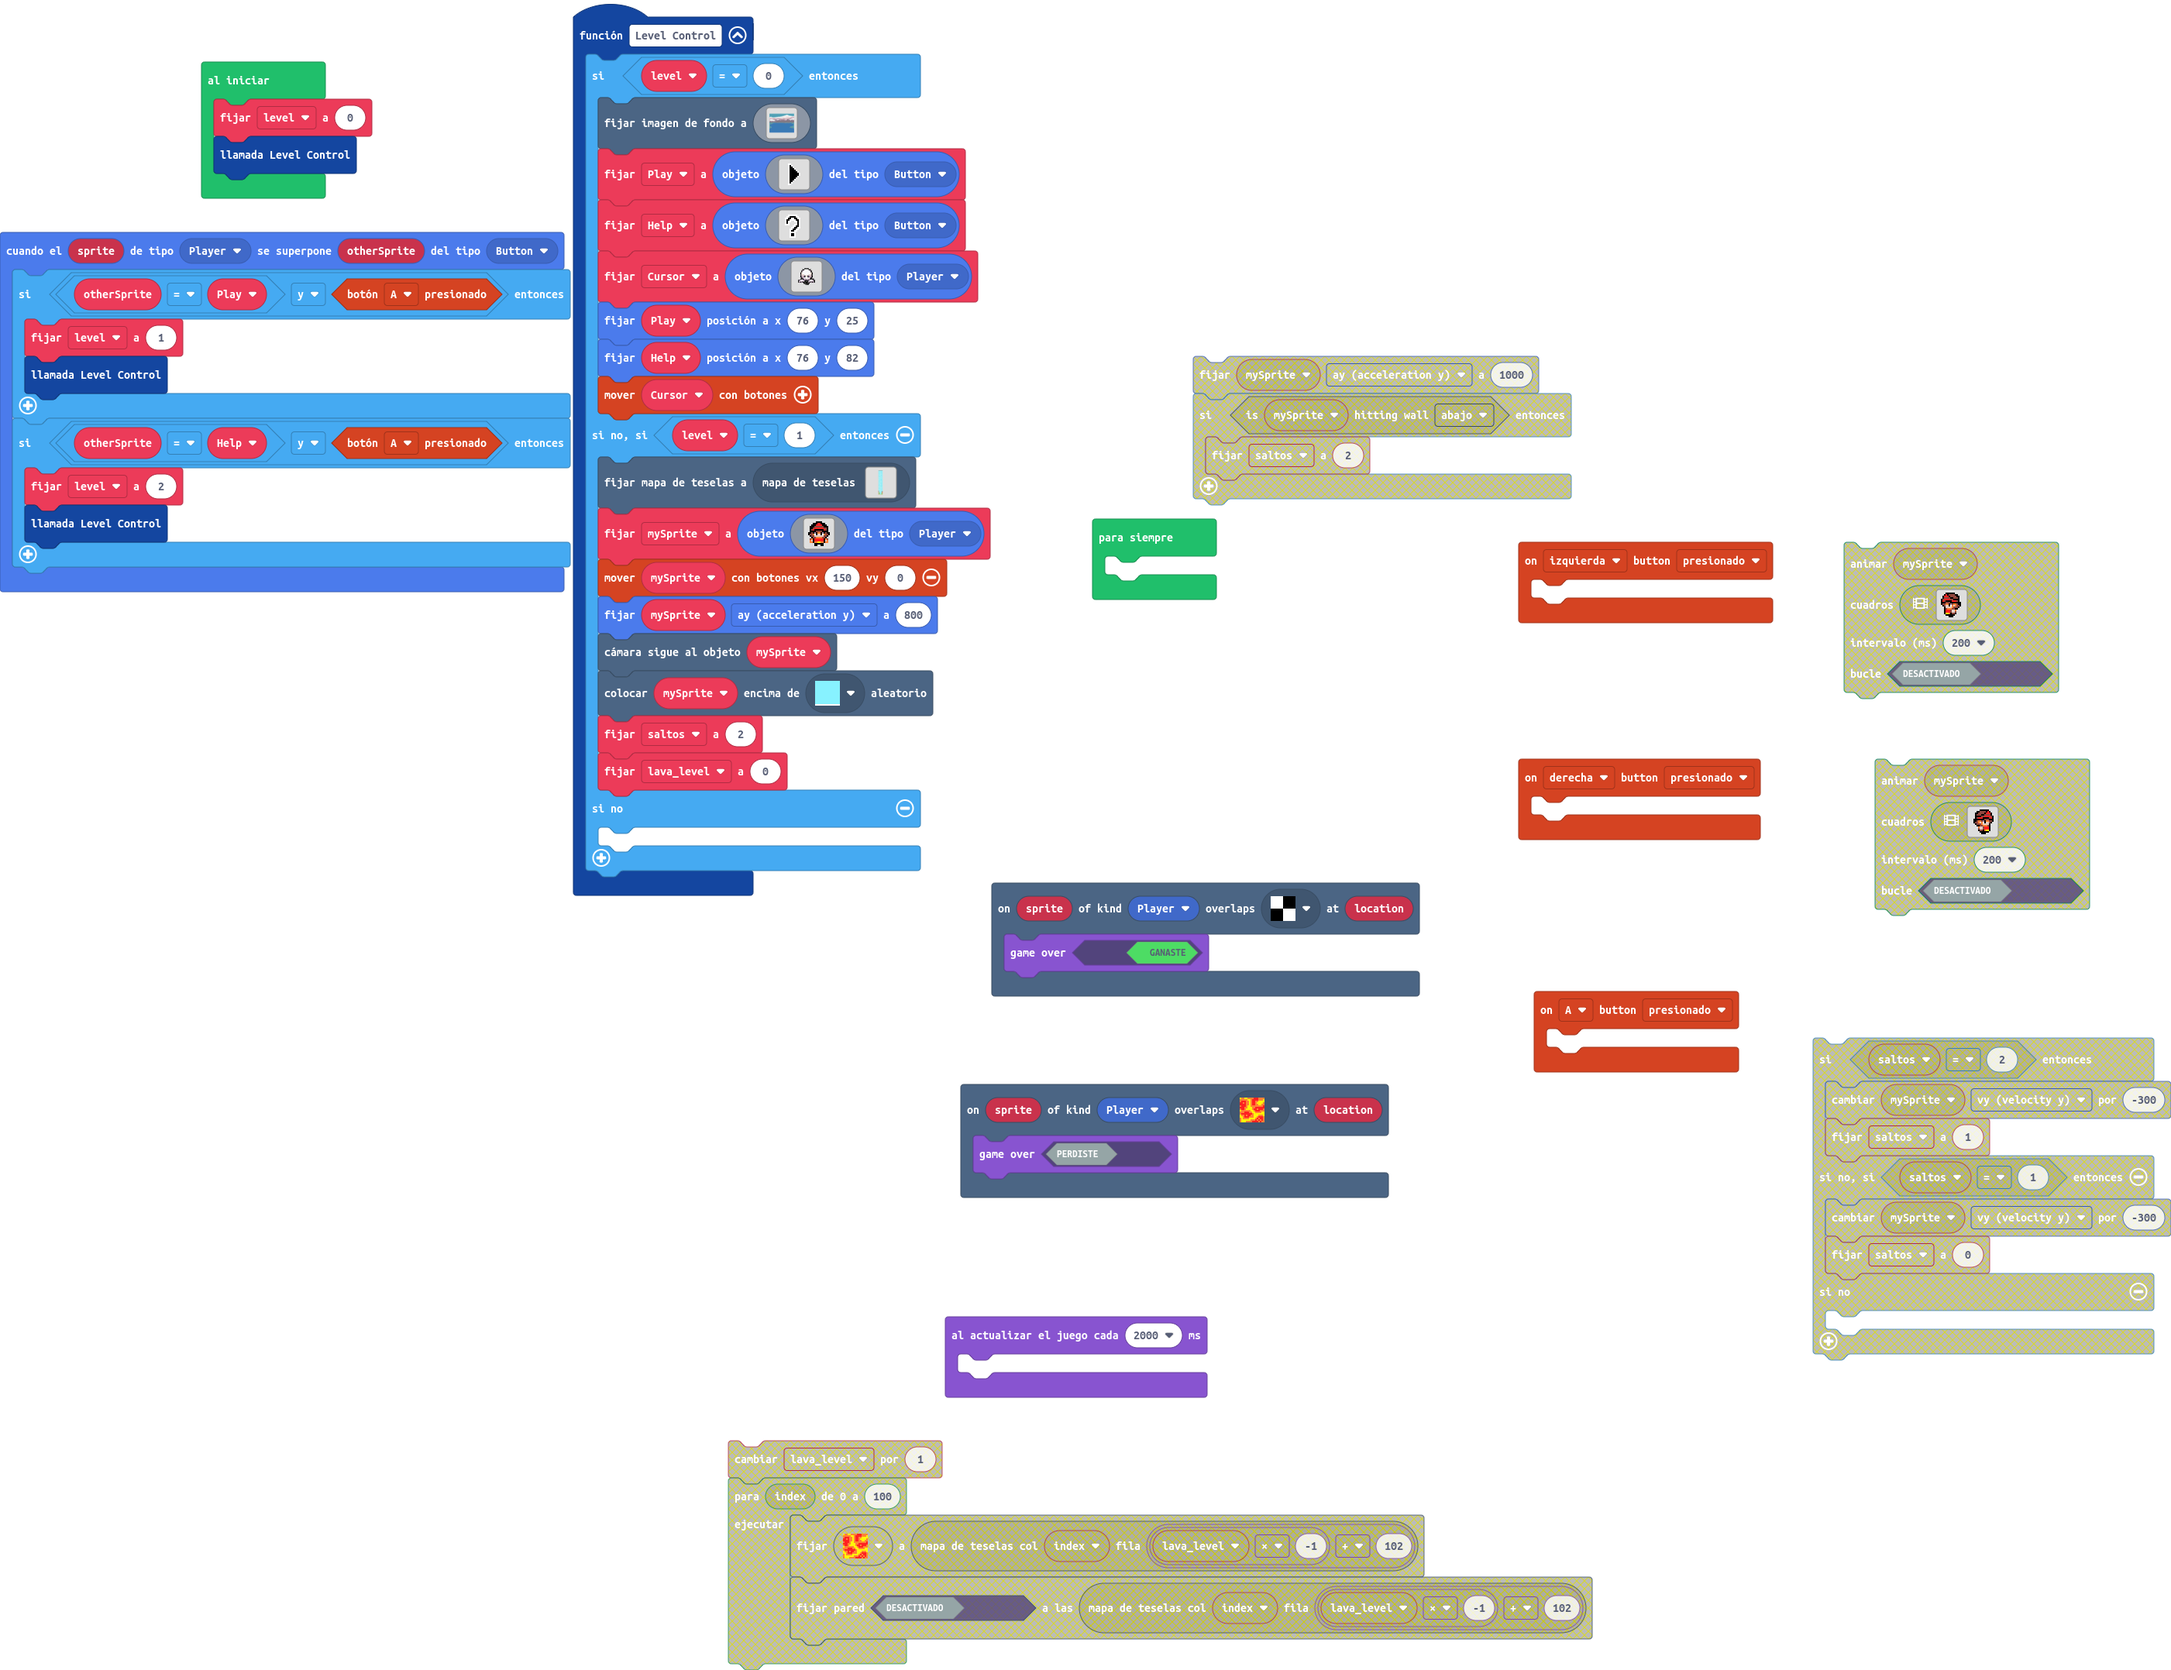
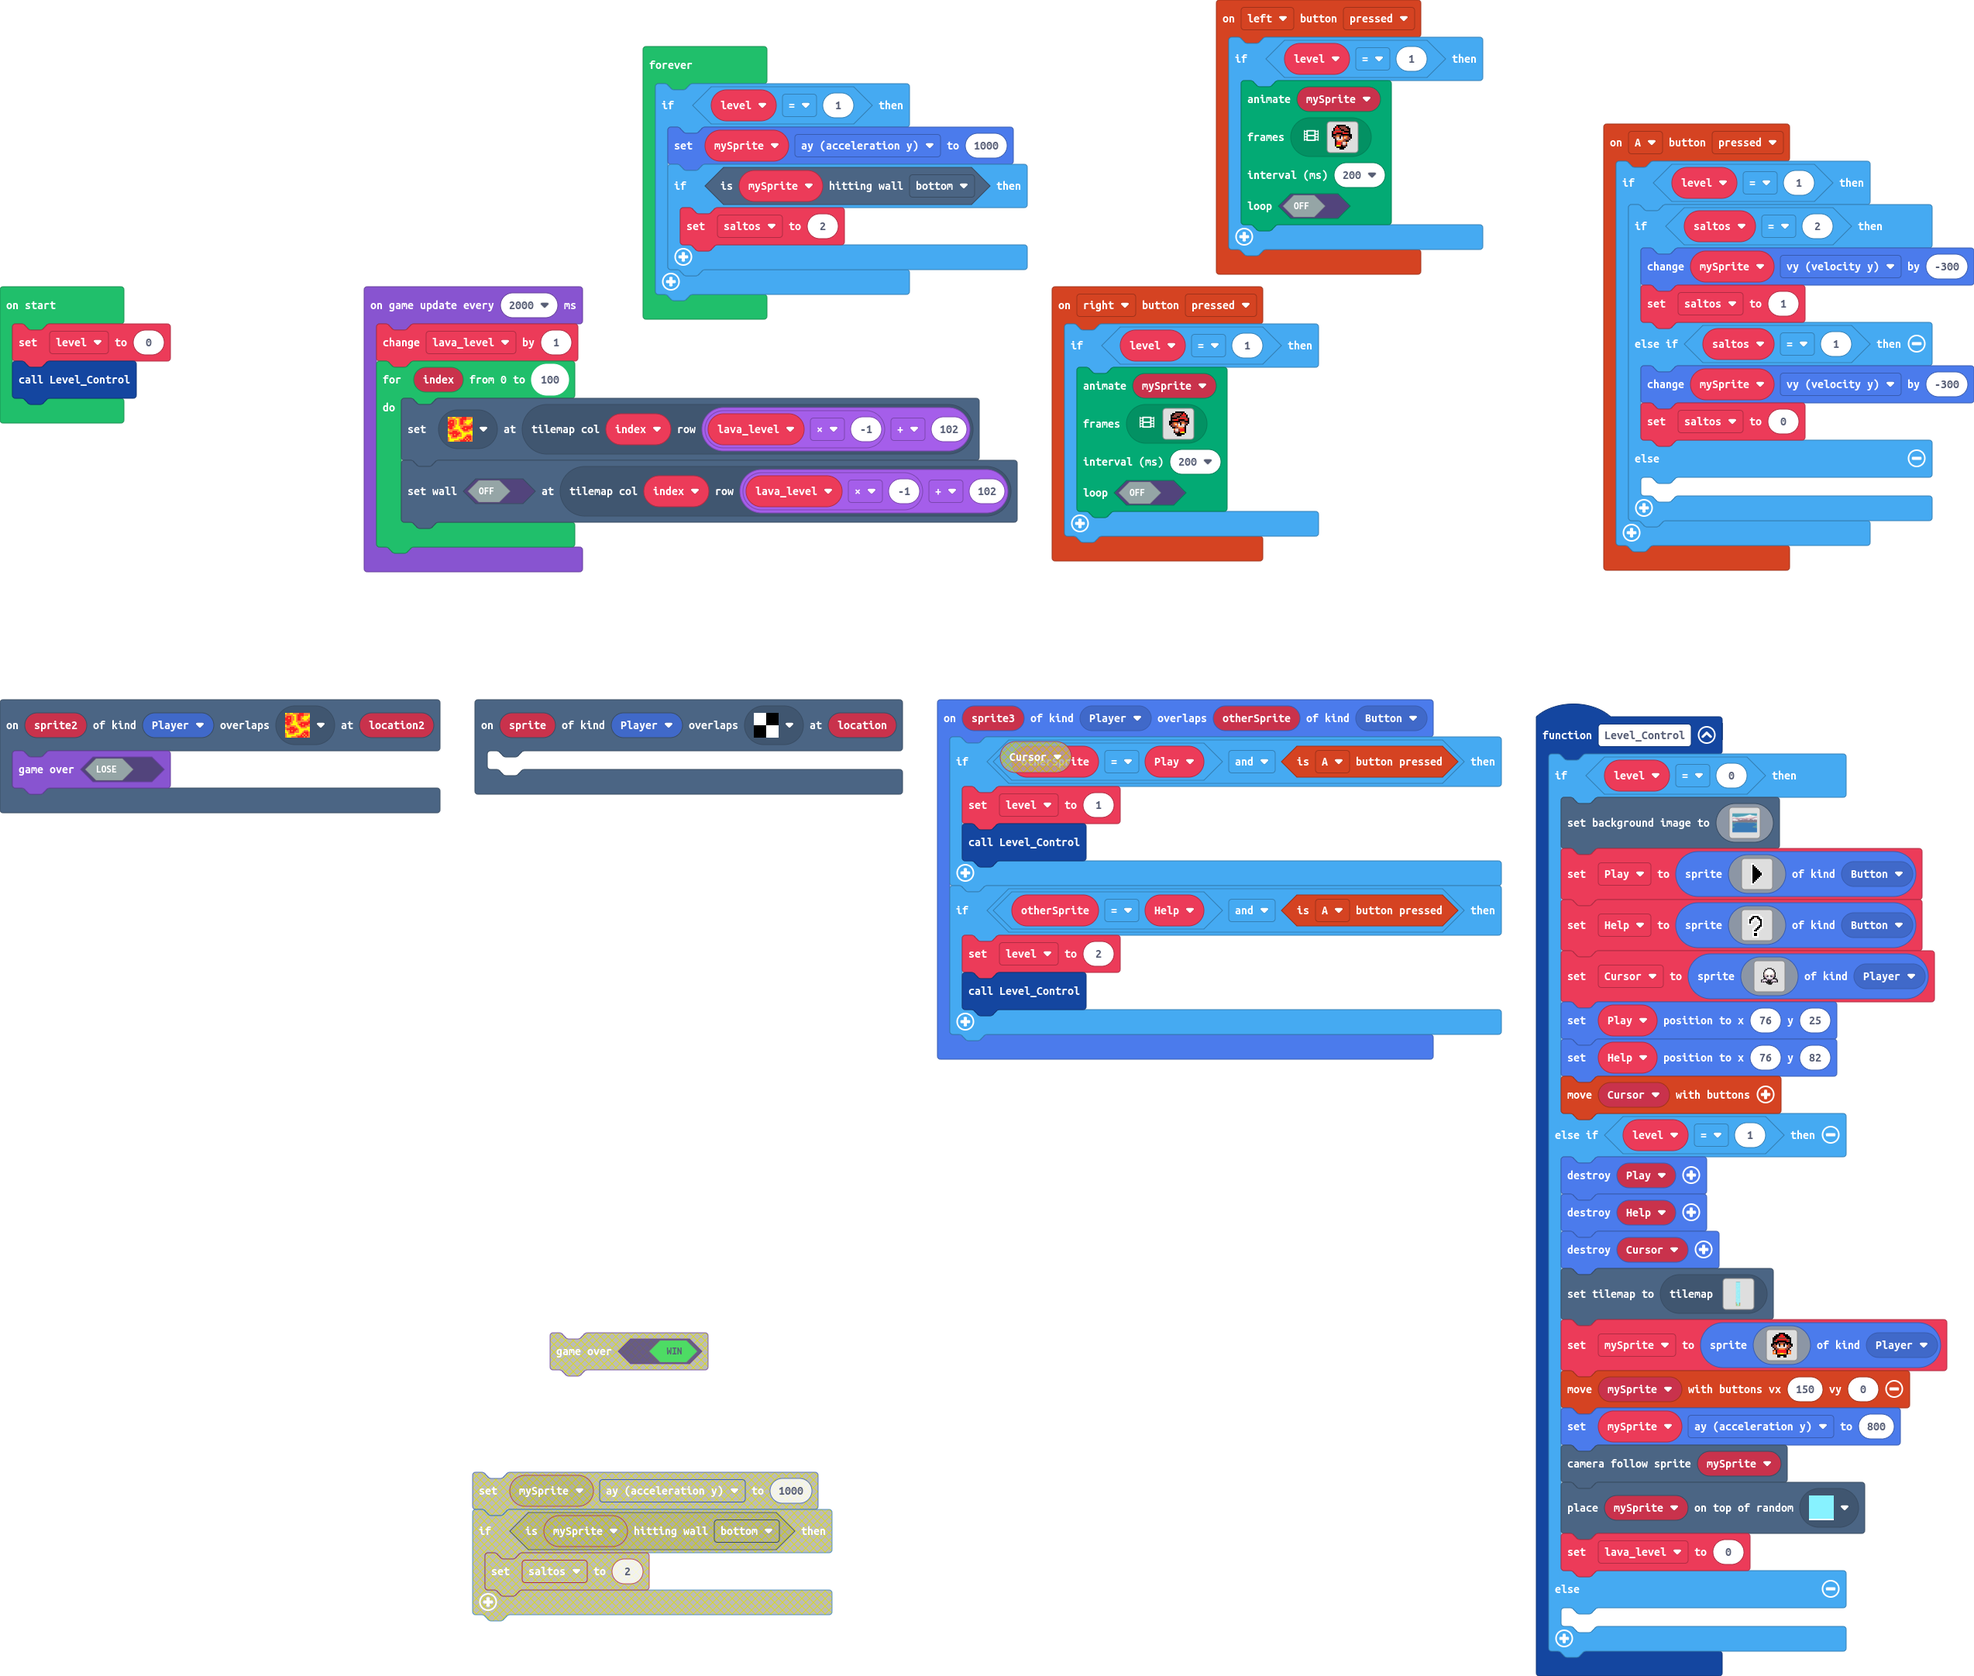
Update pxt.json, main.blocks, main.ts, tilemap.g.ts, images.g.ts, main.py

diff --git a/main.ts b/main.ts
@@ -1,29 +1,43 @@
 namespace SpriteKind {
     export const Button = SpriteKind.create()
 }
-scene.onOverlapTile(SpriteKind.Player, assets.tile`meta`, function (sprite, location) {
-    game.gameOver(true)
+controller.A.onEvent(ControllerButtonEvent.Pressed, function () {
+    if (level == 1) {
+        if (saltos == 2) {
+            mySprite.vy += -300
+            saltos = 1
+        } else if (saltos == 1) {
+            mySprite.vy += -300
+            saltos = 0
+        } else {
+        	
+        }
+    }
 })
-scene.onOverlapTile(SpriteKind.Player, assets.tile`lava`, function (sprite, location) {
+scene.onOverlapTile(SpriteKind.Player, assets.tile`lava`, function (sprite2, location2) {
     game.gameOver(false)
 })
-controller.right.onEvent(ControllerButtonEvent.Pressed, function () {
+scene.onOverlapTile(SpriteKind.Player, assets.tile`meta`, function (sprite, location) {
 	
 })
 controller.left.onEvent(ControllerButtonEvent.Pressed, function () {
-	
-})
-controller.A.onEvent(ControllerButtonEvent.Pressed, function () {
-	
-})
-sprites.onOverlap(SpriteKind.Player, SpriteKind.Button, function (sprite, otherSprite) {
-    if (otherSprite == Play && controller.A.isPressed()) {
-        level = 1
-        Level_Control()
+    if (level == 1) {
+        animation.runImageAnimation(
+        mySprite,
+        assets.animation`camina_izquierda`,
+        200,
+        false
+        )
     }
-    if (otherSprite == Help && controller.A.isPressed()) {
-        level = 2
-        Level_Control()
+})
+controller.right.onEvent(ControllerButtonEvent.Pressed, function () {
+    if (level == 1) {
+        animation.runImageAnimation(
+        mySprite,
+        assets.animation`camina_derecha`,
+        200,
+        false
+        )
     }
 })
 function Level_Control () {
@@ -36,30 +50,51 @@ function Level_Control () {
         Help.setPosition(76, 82)
         controller.moveSprite(Cursor)
     } else if (level == 1) {
+        sprites.destroy(Play)
+        sprites.destroy(Help)
+        sprites.destroy(Cursor)
         tiles.setCurrentTilemap(tilemap`level2`)
         mySprite = sprites.create(assets.image`user`, SpriteKind.Player)
         controller.moveSprite(mySprite, 150, 0)
         mySprite.ay = 800
         scene.cameraFollowSprite(mySprite)
         tiles.placeOnRandomTile(mySprite, assets.tile`myTile`)
-        saltos = 2
         lava_level = 0
     } else {
     	
     }
 }
+sprites.onOverlap(SpriteKind.Player, SpriteKind.Button, function (sprite3, otherSprite) {
+    if (otherSprite == Play && controller.A.isPressed()) {
+        level = 1
+        Level_Control()
+    }
+    if (otherSprite == Help && controller.A.isPressed()) {
+        level = 2
+        Level_Control()
+    }
+})
 let lava_level = 0
-let saltos = 0
-let mySprite: Sprite = null
 let Cursor: Sprite = null
 let Help: Sprite = null
 let Play: Sprite = null
+let mySprite: Sprite = null
+let saltos = 0
 let level = 0
 level = 0
 Level_Control()
 game.onUpdateInterval(2000, function () {
-	
+    lava_level += 1
+    for (let index = 0; index <= 100; index++) {
+        tiles.setTileAt(tiles.getTileLocation(index, lava_level * -1 + 102), assets.tile`lava`)
+        tiles.setWallAt(tiles.getTileLocation(index, lava_level * -1 + 102), false)
+    }
 })
 forever(function () {
-	
+    if (level == 1) {
+        mySprite.ay = 1000
+        if (mySprite.isHittingTile(CollisionDirection.Bottom)) {
+            saltos = 2
+        }
+    }
 })

diff --git a/images.g.ts b/images.g.ts
@@ -1,4 +1,4 @@
-// Código generado automáticamente. No editar.
+// Auto-generated code. Do not edit.
 namespace myImages {
 
     helpers._registerFactory("image", function(name: string) {
@@ -387,4 +387,4 @@ ee888888888888888888888888888888888888888888888888888888888888888888888888888888
     })
 
 }
-// Código generado automáticamente. No editar.
+// Auto-generated code. Do not edit.

diff --git a/tilemap.g.ts b/tilemap.g.ts
@@ -1,4 +1,4 @@
-// Código generado automáticamente. No editar.
+// Auto-generated code. Do not edit.
 namespace myTiles {
     //% fixedInstance jres blockIdentity=images._tile
     export const transparency16 = image.ofBuffer(hex``);
@@ -288,4 +288,4 @@ namespace myTiles {
     })
 
 }
-// Código generado automáticamente. No editar.
+// Auto-generated code. Do not edit.

diff --git a/main.py b/main.py
@@ -1,0 +1,121 @@
+@namespace
+class SpriteKind:
+    Button = SpriteKind.create()
+
+def on_a_pressed():
+    if level == 1:
+        global saltos
+        if saltos == 2:
+            mySprite.vy += -300
+            saltos = 1
+        elif saltos == 1:
+            mySprite.vy += -300
+            saltos = 0
+        else:
+            pass
+controller.A.on_event(ControllerButtonEvent.PRESSED, on_a_pressed)
+
+def on_overlap_tile(sprite2, location2):
+    game.game_over(False)
+scene.on_overlap_tile(SpriteKind.player,
+    assets.tile("""
+        lava
+    """),
+    on_overlap_tile)
+
+def on_overlap_tile2(sprite, location):
+    pass
+scene.on_overlap_tile(SpriteKind.player,
+    assets.tile("""
+        meta
+    """),
+    on_overlap_tile2)
+
+def on_left_pressed():
+    if level == 1:
+        animation.run_image_animation(mySprite,
+            assets.animation("""
+                camina_izquierda
+            """),
+            200,
+            False)
+controller.left.on_event(ControllerButtonEvent.PRESSED, on_left_pressed)
+
+def on_right_pressed():
+    if level == 1:
+        animation.run_image_animation(mySprite,
+            assets.animation("""
+                camina_derecha
+            """),
+            200,
+            False)
+controller.right.on_event(ControllerButtonEvent.PRESSED, on_right_pressed)
+
+def Level_Control():
+    global Play, Help, Cursor, mySprite, lava_level
+    if level == 0:
+        scene.set_background_image(assets.image("""
+            myImage
+        """))
+        Play = sprites.create(assets.image("""
+            play_button
+        """), SpriteKind.Button)
+        Help = sprites.create(assets.image("""
+            help_button
+        """), SpriteKind.Button)
+        Cursor = sprites.create(assets.image("""
+            cursor
+        """), SpriteKind.player)
+        Play.set_position(76, 25)
+        Help.set_position(76, 82)
+        controller.move_sprite(Cursor)
+    elif level == 1:
+        sprites.destroy(Play)
+        sprites.destroy(Help)
+        sprites.destroy(Cursor)
+        tiles.set_current_tilemap(tilemap("""
+            level2
+        """))
+        mySprite = sprites.create(assets.image("""
+            user
+        """), SpriteKind.player)
+        controller.move_sprite(mySprite, 150, 0)
+        mySprite.ay = 800
+        scene.camera_follow_sprite(mySprite)
+        tiles.place_on_random_tile(mySprite, assets.tile("""
+            myTile
+        """))
+        lava_level = 0
+    else:
+        pass
+
+def on_on_overlap(sprite3, otherSprite):
+    global level
+    if otherSprite == Play and controller.A.is_pressed():
+        level = 1
+        Level_Control()
+    if otherSprite == Help and controller.A.is_pressed():
+        level = 2
+        Level_Control()
+sprites.on_overlap(SpriteKind.player, SpriteKind.Button, on_on_overlap)
+
+lava_level = 0
+Cursor: Sprite = None
+Help: Sprite = None
+Play: Sprite = None
+mySprite: Sprite = None
+saltos = 0
+level = 0
+level = 0
+Level_Control()
+
+def on_update_interval():
+    global lava_level
+    lava_level += 1
+    for index in range(101):
+        tiles.set_tile_at(tiles.get_tile_location(index, lava_level * -1 + 102),
+            assets.tile("""
+                lava
+            """))
+        tiles.set_wall_at(tiles.get_tile_location(index, lava_level * -1 + 102), False)
+game.on_update_interval(2000, on_update_interval)
